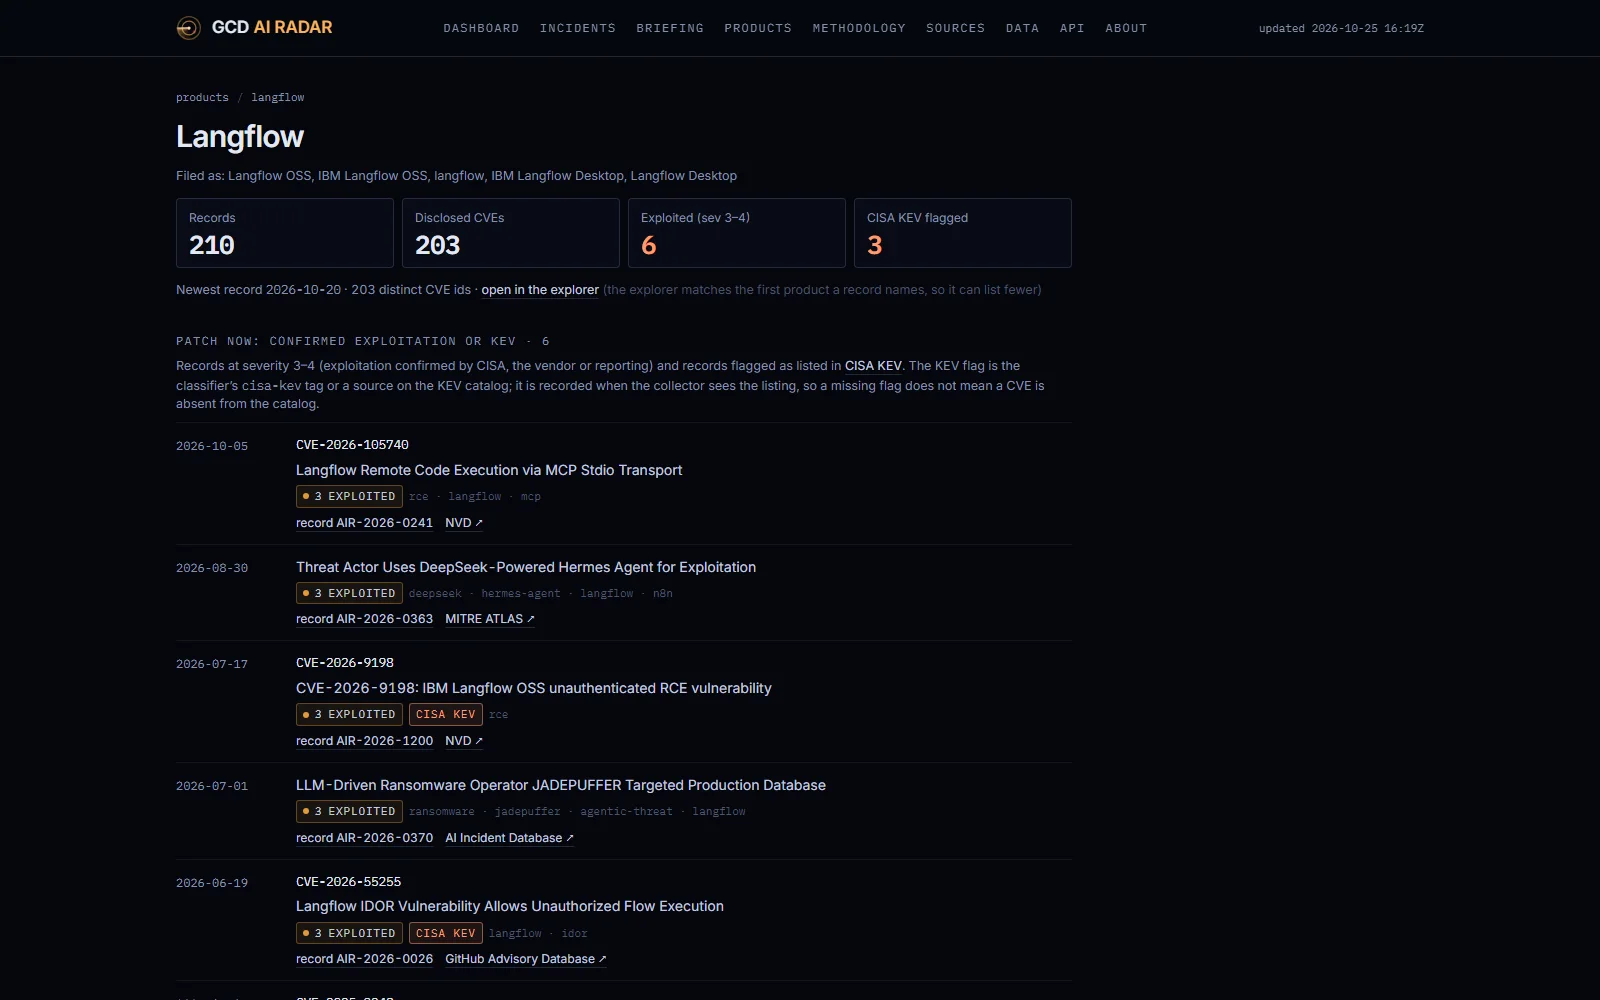
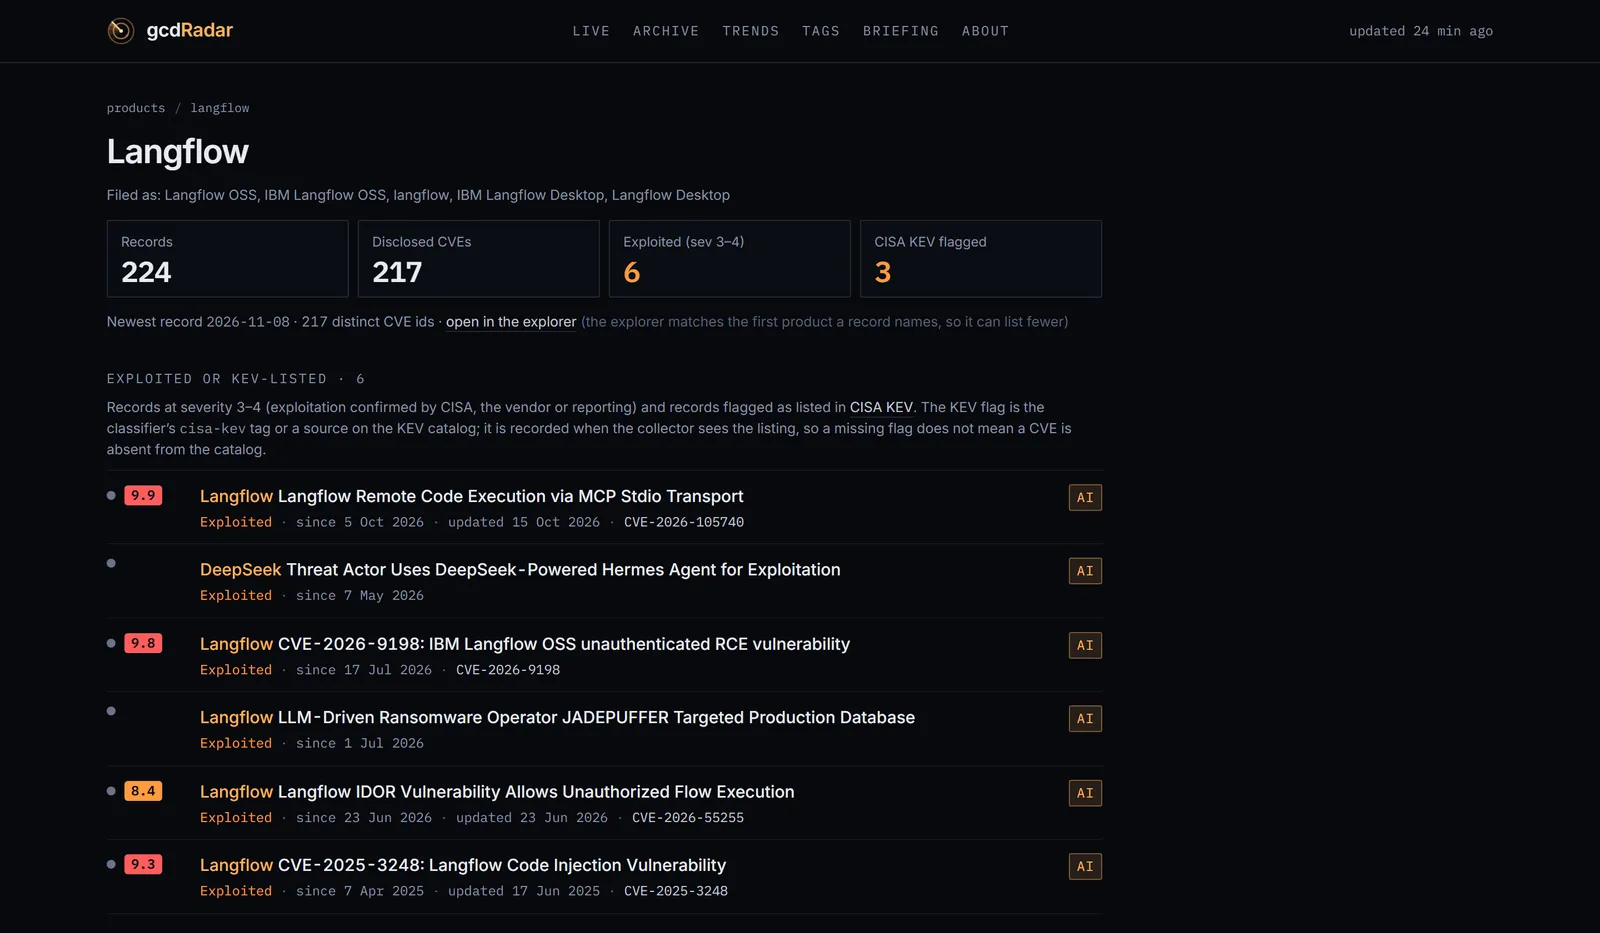
rename to gcdRadar at gcdradar.vercel.app; README with fresh screenshots
The site, wordmark, repository links, user agents, robots token and package
names now say gcdRadar (gcdradar.vercel.app, github.com/eshin087/gcdRadar).
The wordmark reads "gcd" in ink and "Radar" in the accent, as the gcd family
writes its names. The Cloudflare Worker keeps its name and workers.dev URL:
a renamed Worker is a new one and would need both secrets put again.

README rewritten around the day sheet with new screenshots of the home page,
day sheet, a product watch page, Trends and the weekly briefing; the withdrawn
API and embed section is gone and the schedule matches the 30-minute collector
and the twice-daily deploy windows.

diff --git a/lib/site.ts b/lib/site.ts
@@ -4,12 +4,12 @@
 export const INTERNET_API = "https://gcd-ai-radar-internet.eshin087.workers.dev/v1/internet";
 
 export const SITE = {
-  name: "GCD RADAR",
-  wordmark: "GCD RADAR",
+  name: "gcdRadar",
+  wordmark: "gcdRadar",
   tagline: "Live security incidents, with an AI lens",
   description:
-    "GCD RADAR tracks live security incidents across the web, with an AI lens: what happened, whether there is a fix, and what to do. Every record is counted once and linked to its reporting.",
-  github: "https://github.com/eshin087/gcd-ai-radar",
+    "gcdRadar tracks live security incidents across the web, with an AI lens: what happened, whether there is a fix, and what to do. Every record is counted once and linked to its reporting.",
+  github: "https://github.com/eshin087/gcdRadar",
   author: "GCD",
   family: [
     { name: "gcdatlas", url: "https://gcdatlas.com", blurb: "the real universe, drawn in ASCII" },
@@ -17,7 +17,7 @@ export const SITE = {
     { name: "gcdSignal", url: "https://gcdsignal.vercel.app", blurb: "a local-first AI news reader" },
   ],
   dataLicense: { name: "CC BY-SA 4.0", url: "https://creativecommons.org/licenses/by-sa/4.0/" },
-  codeLicense: { name: "MIT", url: "https://github.com/eshin087/gcd-ai-radar/blob/main/LICENSE" },
+  codeLicense: { name: "MIT", url: "https://github.com/eshin087/gcdRadar/blob/main/LICENSE" },
   /** The globe's data: INTERNET_API, or NEXT_PUBLIC_INTERNET_API for local work against `wrangler dev`. */
   internetApi: process.env.NEXT_PUBLIC_INTERNET_API || INTERNET_API,
   /** The live NVD counts, beside the globe's data on the same Worker. */

diff --git a/components/lab/LogoDemos.tsx b/components/lab/LogoDemos.tsx
@@ -25,7 +25,7 @@ export function LogoRadar({ size = 26, iconOnly = false }: { size?: number; icon
       </svg>
       {!iconOnly && (
         <span className="font-sans text-[17px] font-semibold tracking-[-0.01em] text-ink">
-          GCD <span className="text-accent">AI RADAR</span>
+          gcd<span className="text-accent">Radar</span>
         </span>
       )}
     </span>
@@ -41,8 +41,8 @@ export function LogoTerminal() {
         <span className="relative h-2.5 w-2.5 rounded-full bg-[#5fd38d]" />
       </span>
       <span className="text-dim">~/</span>
-      <span className="text-ink">GCD</span>
-      <span className="text-accent">AI&nbsp;RADAR</span>
+      <span className="text-ink">gcd</span>
+      <span className="text-accent">Radar</span>
       <span className="cursor-block cursor-blink" />
     </span>
   );
@@ -66,7 +66,7 @@ export function LogoBadge({ size = 30, iconOnly = false }: { size?: number; icon
       </svg>
       {!iconOnly && (
         <span className="font-sans text-[13px] font-light tracking-[0.32em] text-soft">
-          GCD <span className="font-medium text-ink">AI RADAR</span>
+          gcd<span className="font-medium text-ink">Radar</span>
         </span>
       )}
     </span>

diff --git a/components/layout/Wordmark.tsx b/components/layout/Wordmark.tsx
@@ -40,14 +40,15 @@ export function RadarGlyph({ size = 18, className }: { size?: number; className?
   return <RadarMark size={size} className={className} />;
 }
 
-/** The logo: the turning radar mark beside "GCD" in ink and "AI RADAR" in the accent, in the site sans. */
+/** The logo: the turning radar mark beside "gcd" in ink and "Radar" in the accent, in the site sans, as the gcd family writes its names. */
 export function Wordmark({ href = "/", className = "" }: { href?: string; className?: string }) {
-  const [lead, ...rest] = SITE.wordmark.split(" ");
+  const [, lead, rest] = SITE.wordmark.match(/^(gcd)(.*)$/) ?? ["", SITE.wordmark, ""];
   return (
     <Link href={href} className={`inline-flex shrink-0 items-center gap-2.5 whitespace-nowrap ${className}`} aria-label={`${SITE.name} home`}>
       <RadarMark live />
       <span className="font-sans text-[17px] font-semibold tracking-[-0.01em] text-ink">
-        {lead} <span className="text-accent">{rest.join(" ")}</span>
+        {lead}
+        <span className="text-accent">{rest}</span>
       </span>
     </Link>
   );

diff --git a/tests/collector/dedupe.test.ts b/tests/collector/dedupe.test.ts
@@ -174,13 +174,13 @@ describe("robots.txt", () => {
   const txt = `User-agent: *\nDisallow: /private/\nAllow: /private/ok\n\nUser-agent: ClaudeBot\nDisallow: /\n`;
   it("applies longest-match with allow winning ties and star fallback", () => {
     const g = parseRobots(txt);
-    expect(robotsAllows(g, "gcd-ai-radar", "/news/a")).toBe(true);
-    expect(robotsAllows(g, "gcd-ai-radar", "/private/x")).toBe(false);
-    expect(robotsAllows(g, "gcd-ai-radar", "/private/ok/y")).toBe(true);
+    expect(robotsAllows(g, "gcdradar", "/news/a")).toBe(true);
+    expect(robotsAllows(g, "gcdradar", "/private/x")).toBe(false);
+    expect(robotsAllows(g, "gcdradar", "/private/ok/y")).toBe(true);
     expect(robotsAllows(g, "ClaudeBot", "/news/a")).toBe(false);
   });
   it("treats a default-deny file as disallowed", () => {
     const g = parseRobots("User-agent: *\nDisallow: /\n");
-    expect(robotsAllows(g, "gcd-ai-radar", "/anything")).toBe(false);
+    expect(robotsAllows(g, "gcdradar", "/anything")).toBe(false);
   });
 });

diff --git a/components/lab/Lab.tsx b/components/lab/Lab.tsx
@@ -187,7 +187,7 @@ export function Lab({ data }: { data: LabData }) {
         <h2 className="divider">
           <span className="text-accent">03</span> Logo
         </h2>
-        <Option id="logo-radar" letter="A" title="Radar mark + clean wordmark" note="A minimal radar icon with a slowly turning sweep and a blip, beside GCD AI RADAR in the site's sans.">
+        <Option id="logo-radar" letter="A" title="Radar mark + clean wordmark" note="A minimal radar icon with a slowly turning sweep and a blip, beside gcdRadar in the site's sans.">
           <HeaderMock logo={<LogoRadar />} small={<><span>icon sizes:</span><LogoRadar size={48} iconOnly /><LogoRadar size={32} iconOnly /><LogoRadar size={16} iconOnly /></>} />
         </Option>
         <Option id="logo-terminal" letter="B" title="Terminal wordmark" note="The name as a terminal line in the mono font, with a live pulse and a blinking cursor, matching the terminal panel.">

diff --git a/tests/worker/dispatch.test.ts b/tests/worker/dispatch.test.ts
@@ -30,8 +30,8 @@ describe("dispatchCollector", () => {
     await expect(dispatchCollector("tok", gh.fetcher)).resolves.toBe("dispatched");
     expect(gh.calls).toHaveLength(2);
     const [list, post] = gh.calls;
-    expect(list?.url).toBe("https://api.github.com/repos/eshin087/gcd-ai-radar/actions/workflows/collect.yml/runs?per_page=5");
-    expect(post?.url).toBe("https://api.github.com/repos/eshin087/gcd-ai-radar/actions/workflows/collect.yml/dispatches");
+    expect(list?.url).toBe("https://api.github.com/repos/eshin087/gcdRadar/actions/workflows/collect.yml/runs?per_page=5");
+    expect(post?.url).toBe("https://api.github.com/repos/eshin087/gcdRadar/actions/workflows/collect.yml/dispatches");
     expect(post?.init?.method).toBe("POST");
     expect(JSON.parse(String(post?.init?.body))).toEqual({ ref: "main" });
     expect((post?.init?.headers as Record<string, string>).Authorization).toBe("Bearer tok");

diff --git a/components/lab/TerminalDemos.tsx b/components/lab/TerminalDemos.tsx
@@ -183,7 +183,7 @@ export function MacTerminal({ d }: { d: TermData }) {
 /** B: a retro CRT, phosphor amber, with a boot sequence. */
 export function CrtTerminal({ d }: { d: TermData }) {
   const [ms, replay, ref] = useTimeline();
-  const boot = ["GCD RADAR OS 2.6  (C) GCD", "MEMORY TEST ........ 640K OK", "LINK TO SOURCE FEEDS  OK", `LOADING THREAT MODEL  [${"#".repeat(Math.min(16, Math.floor(ms / 90)))}${"-".repeat(Math.max(0, 16 - Math.floor(ms / 90)))}]`];
+  const boot = ["gcdRadar OS 2.6  (C) GCD", "MEMORY TEST ........ 640K OK", "LINK TO SOURCE FEEDS  OK", `LOADING THREAT MODEL  [${"#".repeat(Math.min(16, Math.floor(ms / 90)))}${"-".repeat(Math.max(0, 16 - Math.floor(ms / 90)))}]`];
   const bootDone = 1700;
   const line = (i: number) => ms > bootDone + 300 + i * 320;
   return (

diff --git a/worker/src/index.ts b/worker/src/index.ts
@@ -80,7 +80,7 @@ async function radar<T>(path: string, params: Record<string, string>, token: str
   for (const [k, v] of Object.entries(params)) url.searchParams.set(k, v);
   url.searchParams.set("format", "JSON");
   const res = await fetch(url, {
-    headers: { Authorization: `Bearer ${token}`, Accept: "application/json", "User-Agent": "gcd-ai-radar-internet/0.1 (+https://gcd-ai-radar.vercel.app)" },
+    headers: { Authorization: `Bearer ${token}`, Accept: "application/json", "User-Agent": "gcdradar-internet/0.1 (+https://gcdradar.vercel.app)" },
     signal: AbortSignal.timeout(UPSTREAM_TIMEOUT_MS),
   });
   if (!res.ok) throw new RadarError(`Radar ${path} answered ${res.status}`, res.status);

diff --git a/tests/briefing.test.ts b/tests/briefing.test.ts
@@ -260,8 +260,8 @@ describe("narrative checks", () => {
   });
 
   it("rejects a narrative that names the site", () => {
-    expect(narrativeProblems(`During the week, gcd AI Radar recorded 1 incident. ${filler}`, allowed, numbers).join()).toMatch(/names the site/);
     expect(narrativeProblems(`During the week, GCD RADAR recorded 1 incident. ${filler}`, allowed, numbers).join()).toMatch(/names the site/);
+    expect(narrativeProblems(`During the week, gcdRadar recorded 1 incident. ${filler}`, allowed, numbers).join()).toMatch(/names the site/);
     expect(narrativeProblems(`The observatory recorded 1 incident. ${filler}`, allowed, numbers).join()).toMatch(/names the site/);
   });
 

diff --git a/worker/src/dispatch.ts b/worker/src/dispatch.ts
@@ -11,7 +11,7 @@
  * this repository only, with Actions read and write and nothing else.
  */
 
-export const REPO = "eshin087/gcd-ai-radar";
+export const REPO = "eshin087/gcdRadar";
 export const WORKFLOW = "collect.yml";
 export const BRANCH = "main";
 const API = "https://api.github.com";
@@ -33,7 +33,7 @@ function headers(token: string): Record<string, string> {
     Authorization: `Bearer ${token}`,
     Accept: "application/vnd.github+json",
     "X-GitHub-Api-Version": "2022-11-28",
-    "User-Agent": "gcd-ai-radar-internet/0.1 (+https://gcd-ai-radar.vercel.app)",
+    "User-Agent": "gcdradar-internet/0.1 (+https://gcdradar.vercel.app)",
   };
 }
 

diff --git a/scripts/backfill-cvss.ts b/scripts/backfill-cvss.ts
@@ -30,7 +30,7 @@ import { loadState, saveState } from "../collector/lib/state";
 import type { Advisory } from "../collector/sources/ghsa";
 import { IncidentSchema, type Incident } from "../lib/schema";
 
-const USER_AGENT = "gcd-ai-radar/0.1 (+https://github.com/eshin087/gcd-ai-radar; CVSS backfill)";
+const USER_AGENT = "gcdradar/0.1 (+https://github.com/eshin087/gcdRadar; CVSS backfill)";
 const GHSA_SPACING_MS = 150;
 const NVD_URL = "https://services.nvd.nist.gov/rest/json/cves/2.0";
 export const CACHE_FILE = path.join(process.cwd(), "collector", ".cache", "cvss-lookups.json");

diff --git a/app/(site)/methodology/page.tsx b/app/(site)/methodology/page.tsx
@@ -549,6 +549,7 @@ export default function MethodologyPage() {
           line. The briefing pages are laid out as a front page, the tag directory gets a finder. The Data &amp; API pages, the embed card and every link to
           the machine-readable files are withdrawn; the files themselves stay, unlisted and marked noindex. No counting rule changed.
         </li>
+        <li>2026-11-09 · site renamed gcdRadar, now at gcdradar.vercel.app; the old address redirects. No counting rule changed.</li>
       </ul>
     </div>
   );
